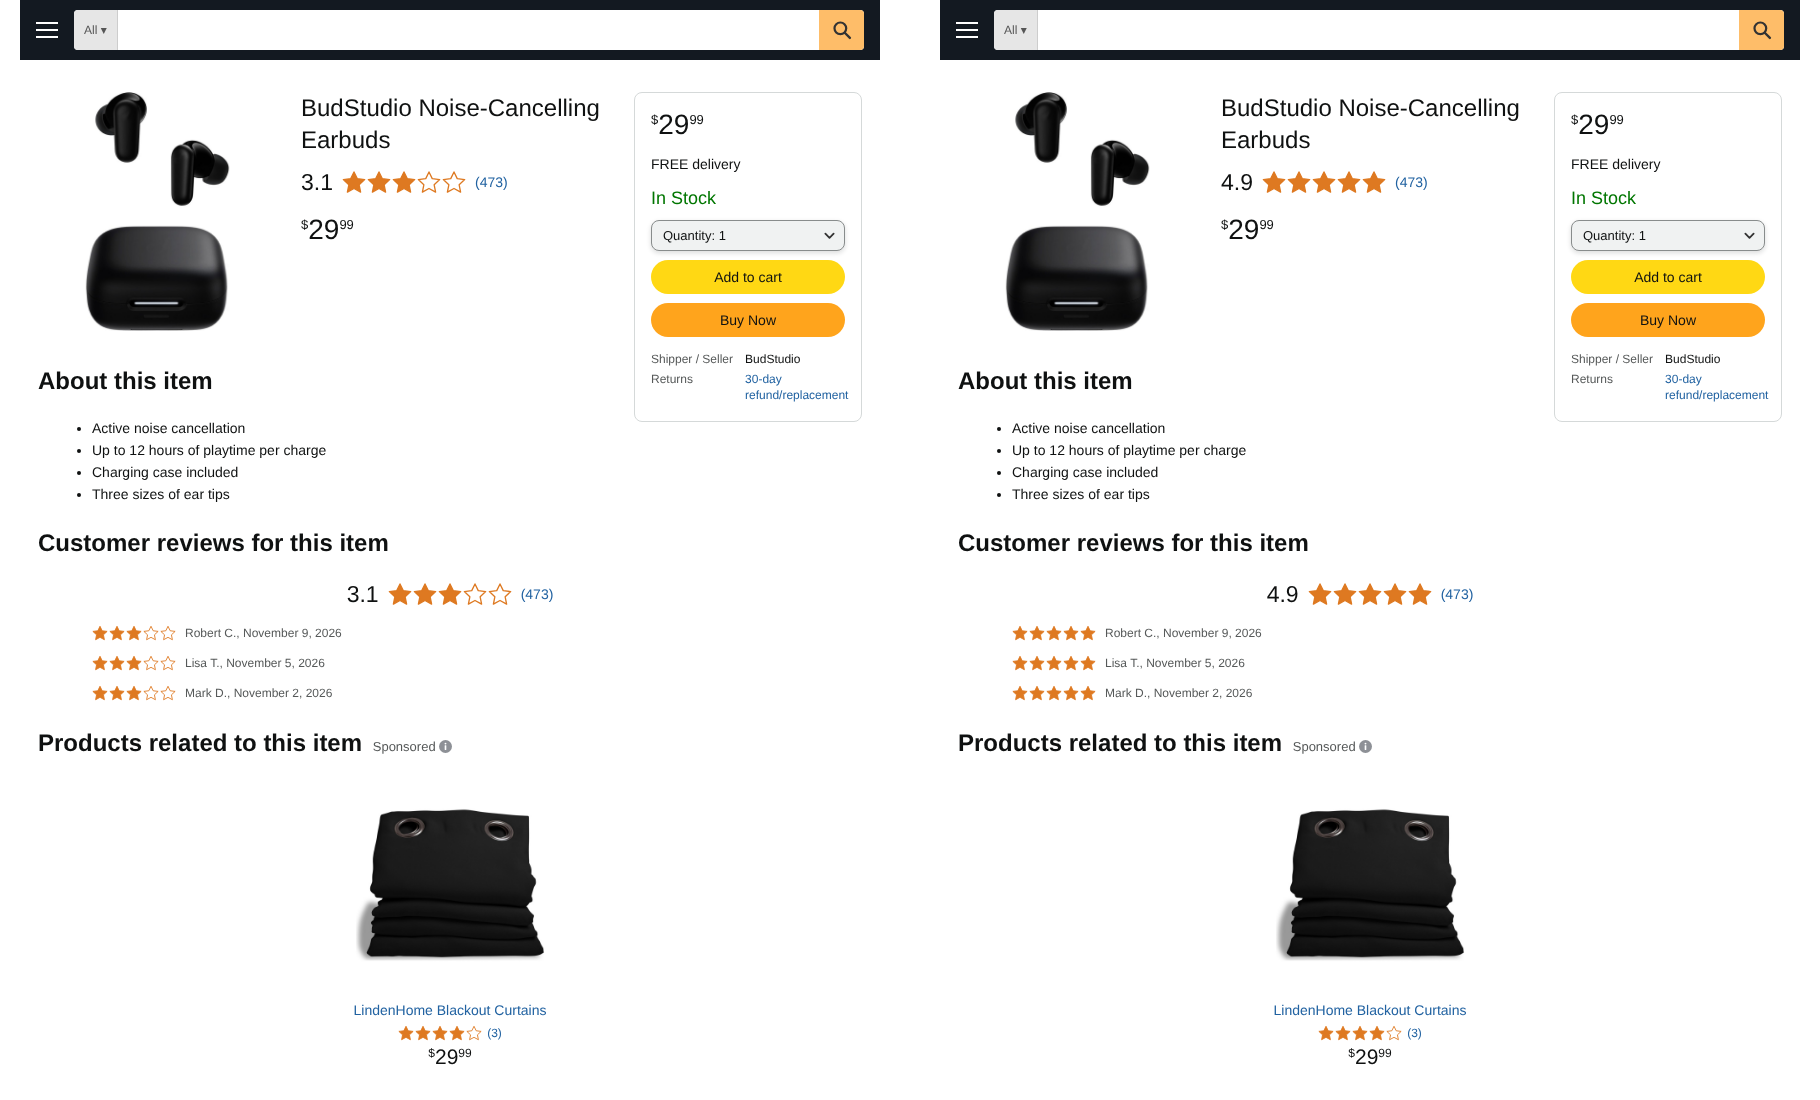
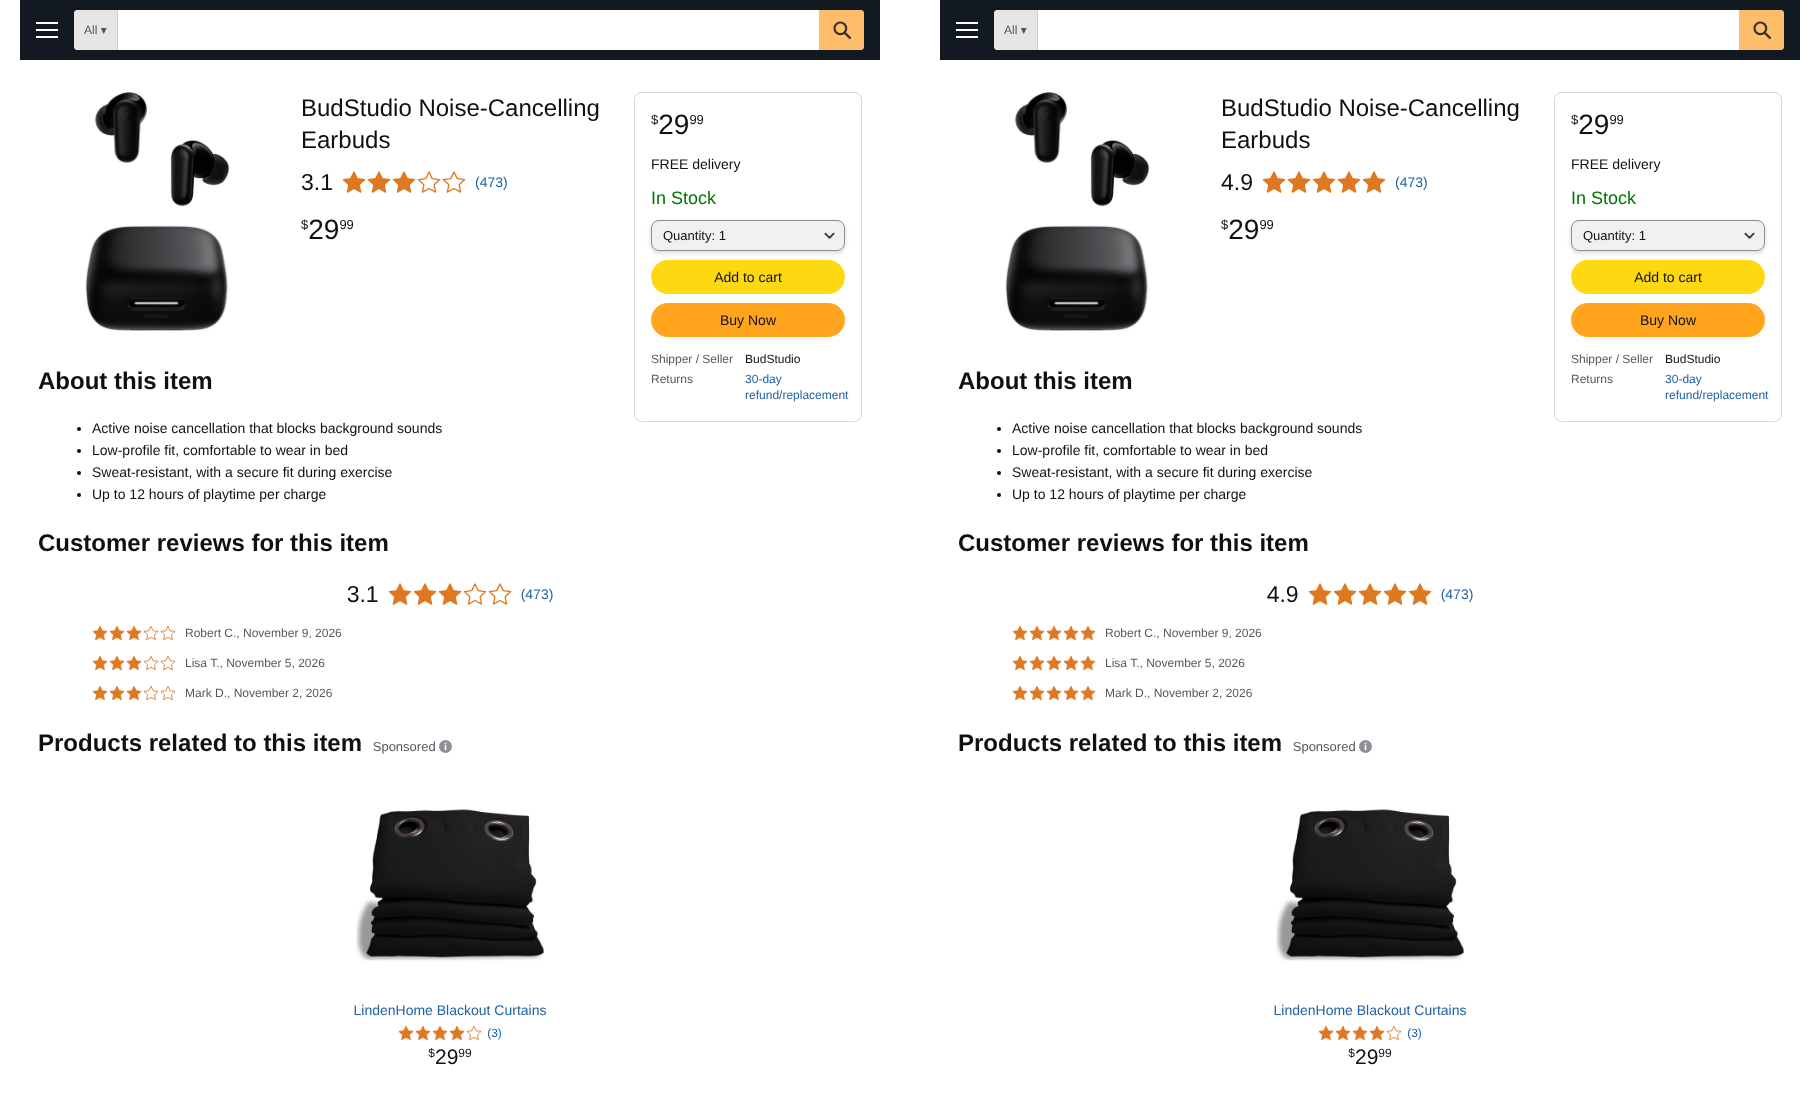
add

Changed region(s): [[0.0308, 0.3709, 0.2462, 0.4636], [0.5538, 0.3709, 0.7385, 0.4636]]

diff --git a/S15.2/s152_31.html b/S15.2/s152_31.html
@@ -116,7 +116,7 @@ h2{margin:21px 0 21px;font-size:24px;line-height:32px;font-weight:700}
       </div>
       <div class="about">
         <h2>About this item</h2>
-        <ul><li>Active noise cancellation</li><li>Up to 12 hours of playtime per charge</li><li>Charging case included</li><li>Three sizes of ear tips</li></ul>
+        <ul><li>Active noise cancellation that blocks background sounds</li><li>Low-profile fit, comfortable to wear in bed</li><li>Sweat-resistant, with a secure fit during exercise</li><li>Up to 12 hours of playtime per charge</li></ul>
       </div>
     </div>
 

diff --git a/S15.2/s152_49.html b/S15.2/s152_49.html
@@ -116,7 +116,7 @@ h2{margin:21px 0 21px;font-size:24px;line-height:32px;font-weight:700}
       </div>
       <div class="about">
         <h2>About this item</h2>
-        <ul><li>Active noise cancellation</li><li>Up to 12 hours of playtime per charge</li><li>Charging case included</li><li>Three sizes of ear tips</li></ul>
+        <ul><li>Active noise cancellation that blocks background sounds</li><li>Low-profile fit, comfortable to wear in bed</li><li>Sweat-resistant, with a secure fit during exercise</li><li>Up to 12 hours of playtime per charge</li></ul>
       </div>
     </div>
 

diff --git a/S15.2/build.py b/S15.2/build.py
@@ -11,7 +11,7 @@ The focal product, its ratings and reviews, the prices, and the layout are uncha
     Sponsored",
     with its own 4.0-star rating from 3 ratings (few ratings, so its own quality is less certain).
 Both cost $29.99. The two products are different kinds of product and are both black. No color word appears in the
-product names or in "About this item". "About this item" has four lines that state attributes only.
+product names or in "About this item". "About this item" has four lines: one makes the earbuds fit the sleep goal ("comfortable to wear\nin bed"), one the gym goal ("secure fit during exercise"), without using the wording of the goal pages (street, night,\nsleeping, gym, working out, music).
 
 Design: 2 (focal product rating: 4.9 vs. 3.1 stars)
       x 2 (shopping goal: products to use for sleeping through the noise at night vs. products to use for listening
@@ -61,10 +61,10 @@ RECS = {
 # Constant on every page. Attributes only: no wording from the shopping goals (no "sleep", "night", "gym", "music",
 # or "workout").
 DESCRIPTION = [
-    "Active noise cancellation",
+    "Active noise cancellation that blocks background sounds",
+    "Low-profile fit, comfortable to wear in bed",
+    "Sweat-resistant, with a secure fit during exercise",
     "Up to 12 hours of playtime per charge",
-    "Charging case included",
-    "Three sizes of ear tips",
 ]
 
 # Individual reviews of the focal earbuds: each shows its stars, the reviewer's name, and the date. No written text.
